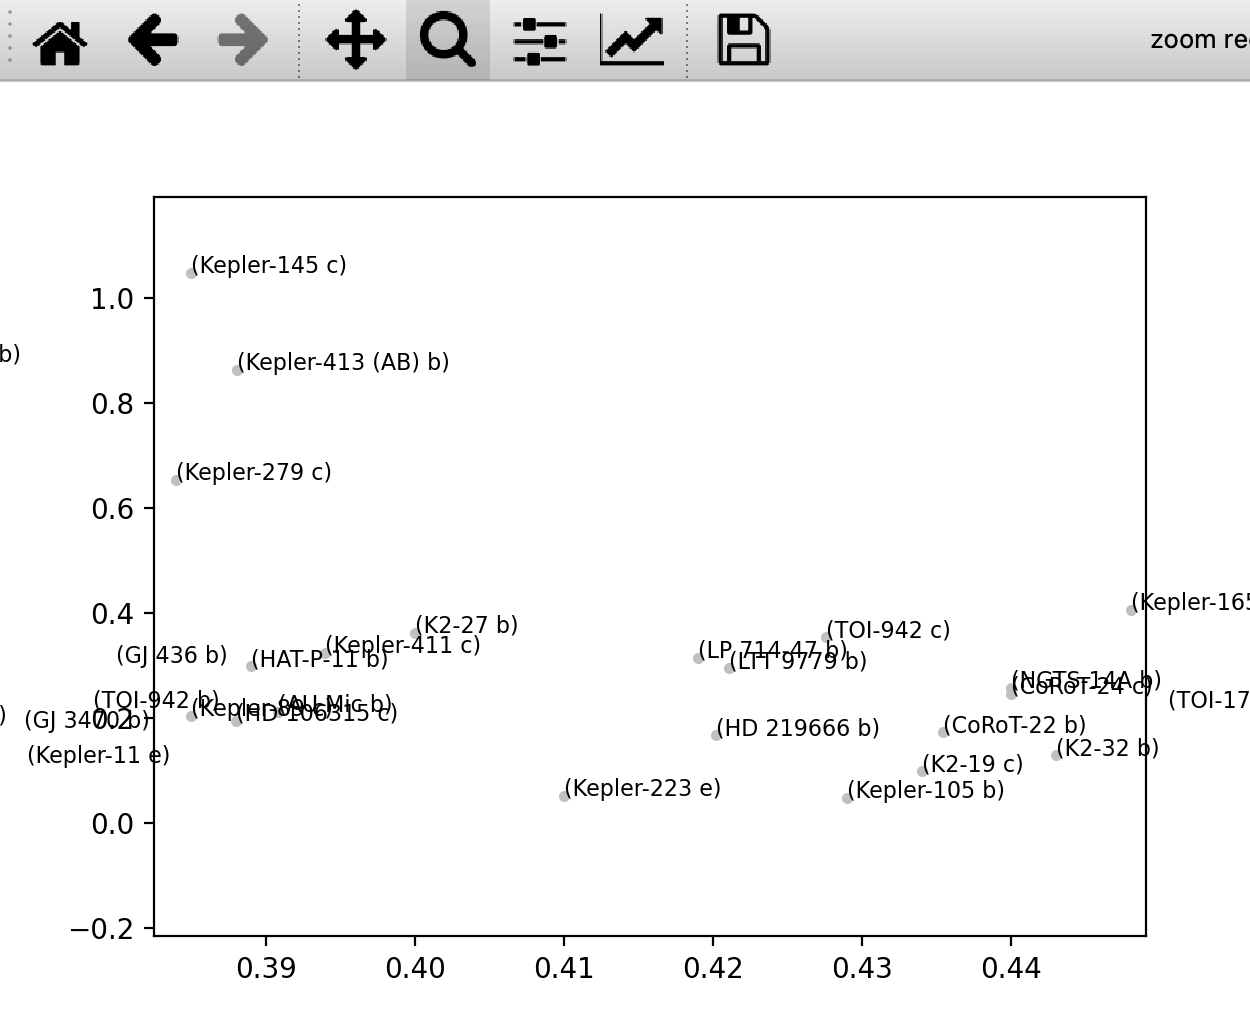
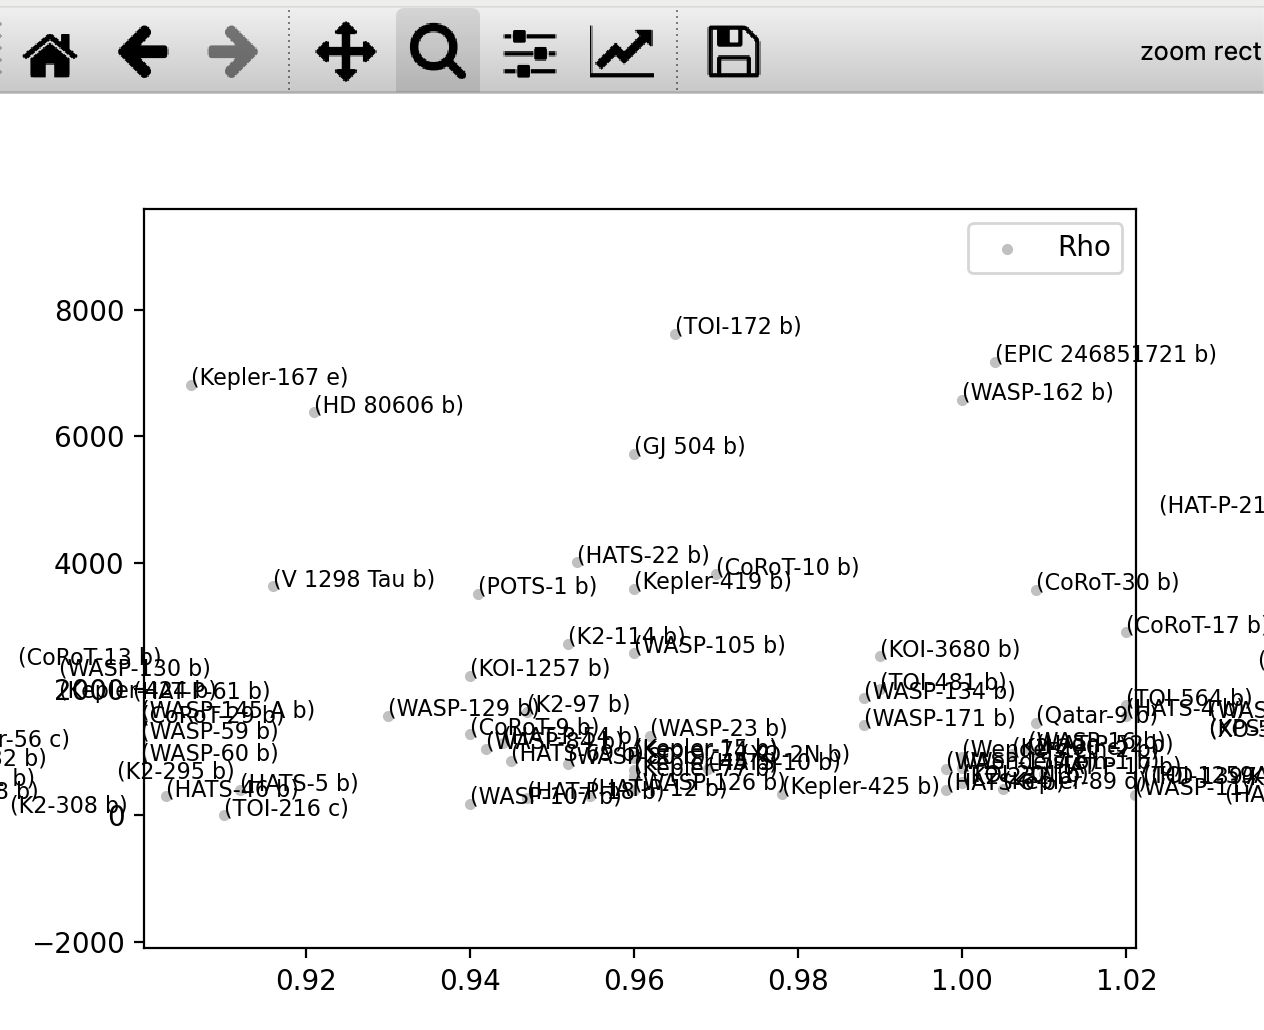
projet astro phase graphique superposé

diff --git a/content/docs/NSI/projet/page10.md b/content/docs/NSI/projet/page10.md
@@ -2,6 +2,8 @@
 Title: dataframes
 ---
 
+
+
 # Traitement de données d'observation en astrophysique
 ## Importer les données et librairies utiles
 
@@ -90,9 +92,65 @@ print("{:3.0f} j, {:3.0f} h, {:3.0f} min {:3.2f} s".format(jours,h,m,s))
 2 j,  11 h,  22 min 43.12 s
 ```
 
-## Présenter les résultats: Dataframe
+# Les bases avec pandas: présenter les données, calculer sur des colonnes
+Pandas va permettre de lire et de modifier des tableaux (DataFrames). Chaque colonne de ton DataFrame sera appelée « descripteur ». La manipulation d'un dataframe peut ressembler à celle d'une base de données (voir SQL).
+
+*Exemple:* La table suivante est issu de l'import d'une base de données d'exoplanètes:
+
+{{< img src="../images/df10.png" >}}
+
+## Présenter les résultats: CSV => Dataframe
+**Importer les données depuis un fichier csv**
+
+Les informations des planètes peuvent être saisies dans un tableur. *Attention à bien utiliser des points comme séparateur décimal*.
+
+{{< img src="../images/tab_excel.png" caption="tableau rempli à l'aide d'un tableur" >}}
+
+**Exporter** (ou enregistrer) en format *csv*.
+
+On peut vérifier en ouvrant le fichier *csv* que les données sont mises dans un format particulier (séparation à l'aide d'un point virgule...)
+{{< img src="../images/tab_csv.png" caption="fichier csv" >}}
+
+**L'import depuis pandas** se fait alors de la manière suivante: *(rien de plus simple)*
+
+```python
+df = pd.read_csv('exoplanetes.csv',sep=';')
+df
+```
+
+{{< img src="../images/df5.png" >}}
+
+**Ajouter les colonnes utiles aux calculs**
+
+un dataframe se comporte comme un *dictionnaire* dont les clefs sont les noms des colonnes et les valeurs sont des séries:
+
+```python
+G = 6.67e-11
+R_Jup = 71e6 
+M_Jup = 6.9911e7
+df['tau']=(df['fin_transit']-df['debut_transit'])*24*3600
+df['delta']=1-df['lum_min']
+
+df['M_star']=7.158780e+29 # pour TOI-270
+df['R_star']=257512600.0  # pour TOI-270
+df['R_p']= np.sqrt(df['delta']) * df['R_star']
+df['radius']=df['R_p']/R_Jup # pour exprimer en R_Jup
+# vitesse planete : V_p = 2*R_star/tau
+df['V_p']= 2*df['R_star']/df['tau']
+# rayon orbital : r = G*M_star/V_p**2
+df['r_orb']= G * df['M_star']/df['V_p']**2
+# periode revolution: T = 2*np.pi*r/V_p
+df['T'] = 2*np.pi*df['r_orb']/df['V_p'] # en s
+df['T_jours'] = df['T']/(24*3600)  # en jours terrestres
+df
+```
+
+{{< img src="../images/df13.png" >}}
+
+
+## Autres méthodes (compléments)
 ### Importer les données d'une liste ou d'un dictionnaire python
-Les données relatives à la planète sont mises dans une liste dont l'ordre pourrait être par exemple:
+Les données relatives à la planète peuvent être mises dans une liste dont l'ordre pourrait être par exemple:
 
 `'planete','etoile','M_star','R_star','delta','tau','date_debut_transit'`
 
@@ -151,7 +209,7 @@ pd.concat([df1,df2],ignore_index = True)
 * Les tableaux concaténés peuvent avoir des nombres de colonnes différents. La valeur placée dans le tableau est alors `NaN`. Cette valeur peut être modifiée par la suite.
 * le paramètre `ignore_index = True` permet de recréer une numérotation de l'index et eviter les doublons. Dans l'exemple proposé ici, cela permet d'eviter d'avoir 2 lignes avec l'index 0.
 
-### fusioner des tableaux aux etiquettes différentes
+## fusionner des tableaux aux etiquettes différentes
 Les tableaux doivent avoir les **mêmes etiquettes** de colonne si on veut ajouter leur ligne l'une sous l'autre. Dans le cas contraire, il faudra **renommer** les colonnes.
 
 *utile après l'import d'une base de données/sql*
@@ -189,36 +247,11 @@ df
 
 {{< img src="../images/df9.png" >}}
 
-### Importer les données depuis un fichier csv
-Les informations des planètes peuvent aussi être saisies dans un tableur. *Attention à bien utiliser des points comme séparateur décimal*.
-
-{{< img src="../images/tab_excel.png" caption="tableau rempli à l'aide d'un tableur" >}}
-
-Exporter (ou enregistrer) en format *csv*.
-
-On peut vérifier en ouvrant le fichier *csv* que les données sont mises dans un format particulier (séparation à l'aide d'un point virgule...)
-{{< img src="../images/tab_csv.png" caption="fichier csv" >}}
-
-L'import depuis pandas se fait alors de la manière suivante: *(rien de plus simple)*
-
-```python
-df = pd.read_csv('exoplanetes.csv',sep=';')
-df
-```
-
-{{< img src="../images/df5.png" >}}
 
 
-# Voir aussi
-## Les bases avec pandas
-Pandas va permettre de lire et de modifier des tableaux (DataFrames). Chaque colonne de ton DataFrame sera appelée « descripteur ». La manipulation d'un dataframe peut ressembler à celle d'une base de données (voir SQL).
 
-*Exemple:* La table suivante est issu de l'import d'une base de données d'exoplanètes:
-
-{{< img src="../images/df10.png" >}}
-
-### langage de requête
-**projection**: reduire le nombre de colonnes (equivalent de `select` en sql)
+## langage de requête
+**projection (SELECT en sql)**: reduire le nombre de colonnes (equivalent de `select` en sql)
 
 ```python
 df[['_name','mass']]
@@ -227,7 +260,7 @@ df
 
 {{< img src="../images/df11.png" >}}
 
-**selection**: lignes (équivalent de `where` en sql)
+**selection (WHERE en sql)**: lignes (équivalent de `where` en sql)
 
 ```python
 df[df['mass']>=1]
@@ -235,14 +268,21 @@ df[df['mass']>=1]
 
 {{< img src="../images/df12.png" >}}
 
+**recherche d'un motif (LIKE en sql)**:
+
+```python
+# Equivalent de LIKE en SQL
+df0[df0['_name'].str.startswith('TOI-270')]
+df0
+```
+
+{{< img src="../images/df17.png" >}}
 
 ### autres types de créations de df
 * Création d'une série: une série est un vecteur de valeurs d'une variable (en général valeurs pour différents individus) :
 `s = pandas.Series([1, 2, 5, 7])` : série numérique entière.
 
-* Création d'un dataframe : un dataframe se comporte comme un dictionnaire dont les clefs sont les noms des colonnes et les valeurs sont des séries.
-
-* Création d'un dataframe à partir d'un dictionnaire:on peut aussi donner un dictionnaire dont les clefs seront les index plutôt que les colonnes :
+* Création d'un dataframe à partir d'un dictionnaire: on peut aussi donner un dictionnaire dont les clefs seront les index plutôt que les colonnes :
 
 
 *source*: [python-simple.com](http://www.python-simple.com/python-pandas/creation-series.php)

diff --git a/content/docs/python/pages/traitement/page3.md b/content/docs/python/pages/traitement/page3.md
@@ -8,7 +8,7 @@ Nous allons utiliser un **script Python** pour nous connecter à la base de donn
 
 Nous utiliserons la librairie `sqlite3` de Python.
 
-Il est conseillé d'utiliser l'IDE Spyder pour editer et interpréter les scripts écrits en Python.
+Il est conseillé d'utiliser l'IDE *Spyder*, ou bien *Jupyter Notebook* pour editer et interpréter les scripts écrits en Python.
 
 La base de données doit être téléchargée ici : [exoplanetes.db](/scripts/BDD/exoplanetes.db)
 
@@ -135,10 +135,12 @@ On peut souhaiter éliminer les lignes pour lesquelles les renseignements ne son
 df.dropna(how='any', inplace=True)
 ```
 
-Et ajouter des colonnes au *dataframe*, comme par exemple le calcul de la masse volumique de la planète:
+Et ajouter des colonnes au *dataframe*, comme par exemple le calcul de la masse volumique de la planète: *(attention, les valeurs de la table sont referencées à celles de Jupiter)*
 
 ```python
-df['rho']=df['mass']/ ... ? ...
+R_Jup = 71e6 
+M_Jup = 1.898e27
+df['rho']=df['mass']*M_Jup/(4/3*np.pi*(df['radius']*R_Jup)**3)
 df
 ```
 
@@ -161,7 +163,7 @@ df
 10. Table des planètes où le type de l'étoile est G ... (utiliser `LIKE "G%"`)
 11. Nom des planètes et distances au soleil, où de l'eau a été détectée (utiliser `LIKE`)
 
-## Graphiques
+## Graphique
 La recherche de dépendances entre grandeurs se fera avec un graphique. On peut chercher par exemple la dépendance masse volumique <-> rayon:
 
 ```python
@@ -182,3 +184,80 @@ plt.show()
 
 {{< img src="../images/df3.png" >}}
 
+## Superposer les données. 
+Commencer par selectionner et nettoyer les données issues de la base de données:
+
+```python
+# BDD - Toutes exoplanetes
+sql = "PRAGMA table_info(planetes_es);"
+cur.execute(sql)
+res = cur.fetchall()
+L = [ligne[1] for ligne in res]
+sql = "select * from planetes_es"
+cur.execute(sql)
+res = cur.fetchall()
+df0 = pd.DataFrame(res,columns=L) # table entiere
+df0 = df0[['_name','orbital_period','radius']] # projection sur les colonnes utiles
+df0.dropna(how='any', inplace=True) # retirer les lignes avec datas non renseignées
+df0
+```
+
+{{< img src="../images/df14.png" >}}
+
+**importer et traiter les données issues des observations**
+Cette partie est détaillée à la page [données en dataframe](/docs/NSI/projet/page10/)
+
+```python
+df = pd.read_csv('donnees_planetes.txt',sep=';')
+G = 6.67e-11
+R_Jup = 71e6 
+M_Jup = 6.9911e7
+df['tau']=(df['fin_transit']-df['debut_transit'])*24*3600
+df['delta']=1-df['lum_min']
+
+df['M_star']=7.158780e+29
+df['R_star']=257512600.0
+df['R_p']= np.sqrt(df['delta']) * df['R_star']
+df['radius']=df['R_p']/R_Jup
+# vitesse planete : V_p = 2*R_star/tau
+df['V_p']= 2*df['R_star']/df['tau']
+# rayon orbital : r = G*M_star/V_p**2
+df['r_orb']= G * df['M_star']/df['V_p']**2
+# periode revolution: T = 2*np.pi*r/V_p
+df['T'] = 2*np.pi*df['r_orb']/df['V_p']
+df['T_jours'] = df['T']/(24*3600)
+df
+```
+
+{{< img src="../images/df16.png" >}}
+
+**Tracer les 2 nuages de points**
+
+```python
+%matplotlib qt
+plt.clf()
+axes = plt.gca()
+"""nuage de points df0 issu de la BDD
+"""
+x = df0['radius']
+y = df0['orbital_period']
+z = df0['_name']
+plt.scatter(x,y,color='silver',marker='.',alpha=0.5)
+
+
+   
+"""nuage de points df issu des observations
+"""
+x_p = df['radius']
+y_p = df['T_jours']
+z_p = df['planete']
+
+plt.scatter(x_p,y_p,color='red',marker='o',label='Rho')
+for x, y, z in zip(x_p, y_p, z_p):
+    axes.text(x, y, f"({z})", fontsize=8)
+
+cursor = Cursor(axes, useblit=True, color='red', linewidth=2)
+plt.show()
+```
+
+{{< img src="../images/df15.png" >}}

diff --git a/content/docs/NSI/projet/page9.md b/content/docs/NSI/projet/page9.md
@@ -55,6 +55,6 @@ Lien de téléchargement: [Planète 2](/scripts/astro/donnees-astep2024/TOI-201/
 
 
 # Traitement de données en table - Pandas Dataframe
-* Manipulation de dataframe: [tuto](../page10)
-* Base de données et python: [tuto](/docs/python/pages/traitement/page3)
+* Données en dataframe: [tuto](../page10)
+* Base de données SQL et python: [tuto](/docs/python/pages/traitement/page3)
 
